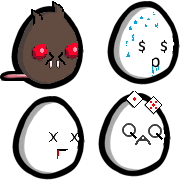
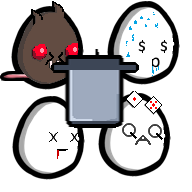
add cooker en  csv

Changed region(s): [[0.25, 0.25, 0.75, 0.6875]]

diff --git a/README.md b/README.md
@@ -8,6 +8,7 @@ steam 创意工坊: https://steamcommunity.com/sharedfiles/filedetails/?id=37683
 骰子
 吝啬鬼
 被厌恶者
+高压锅
 
 ## 武器
 
